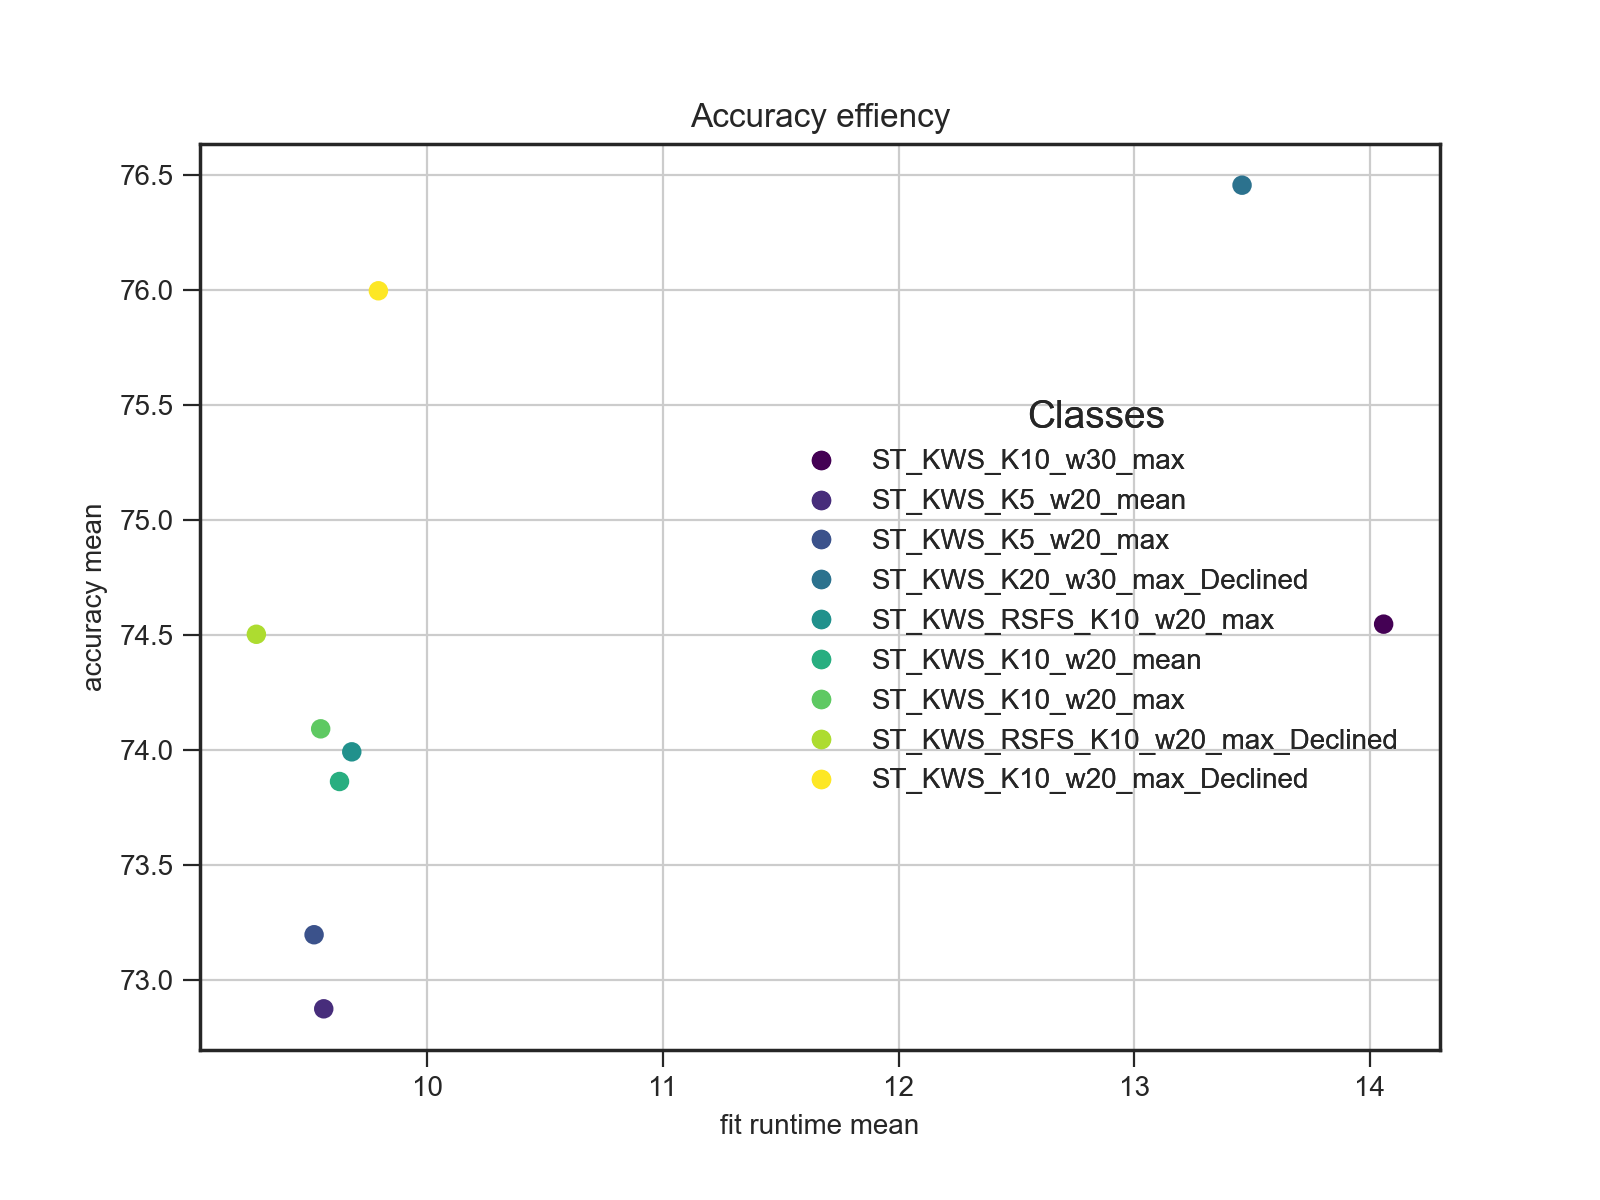
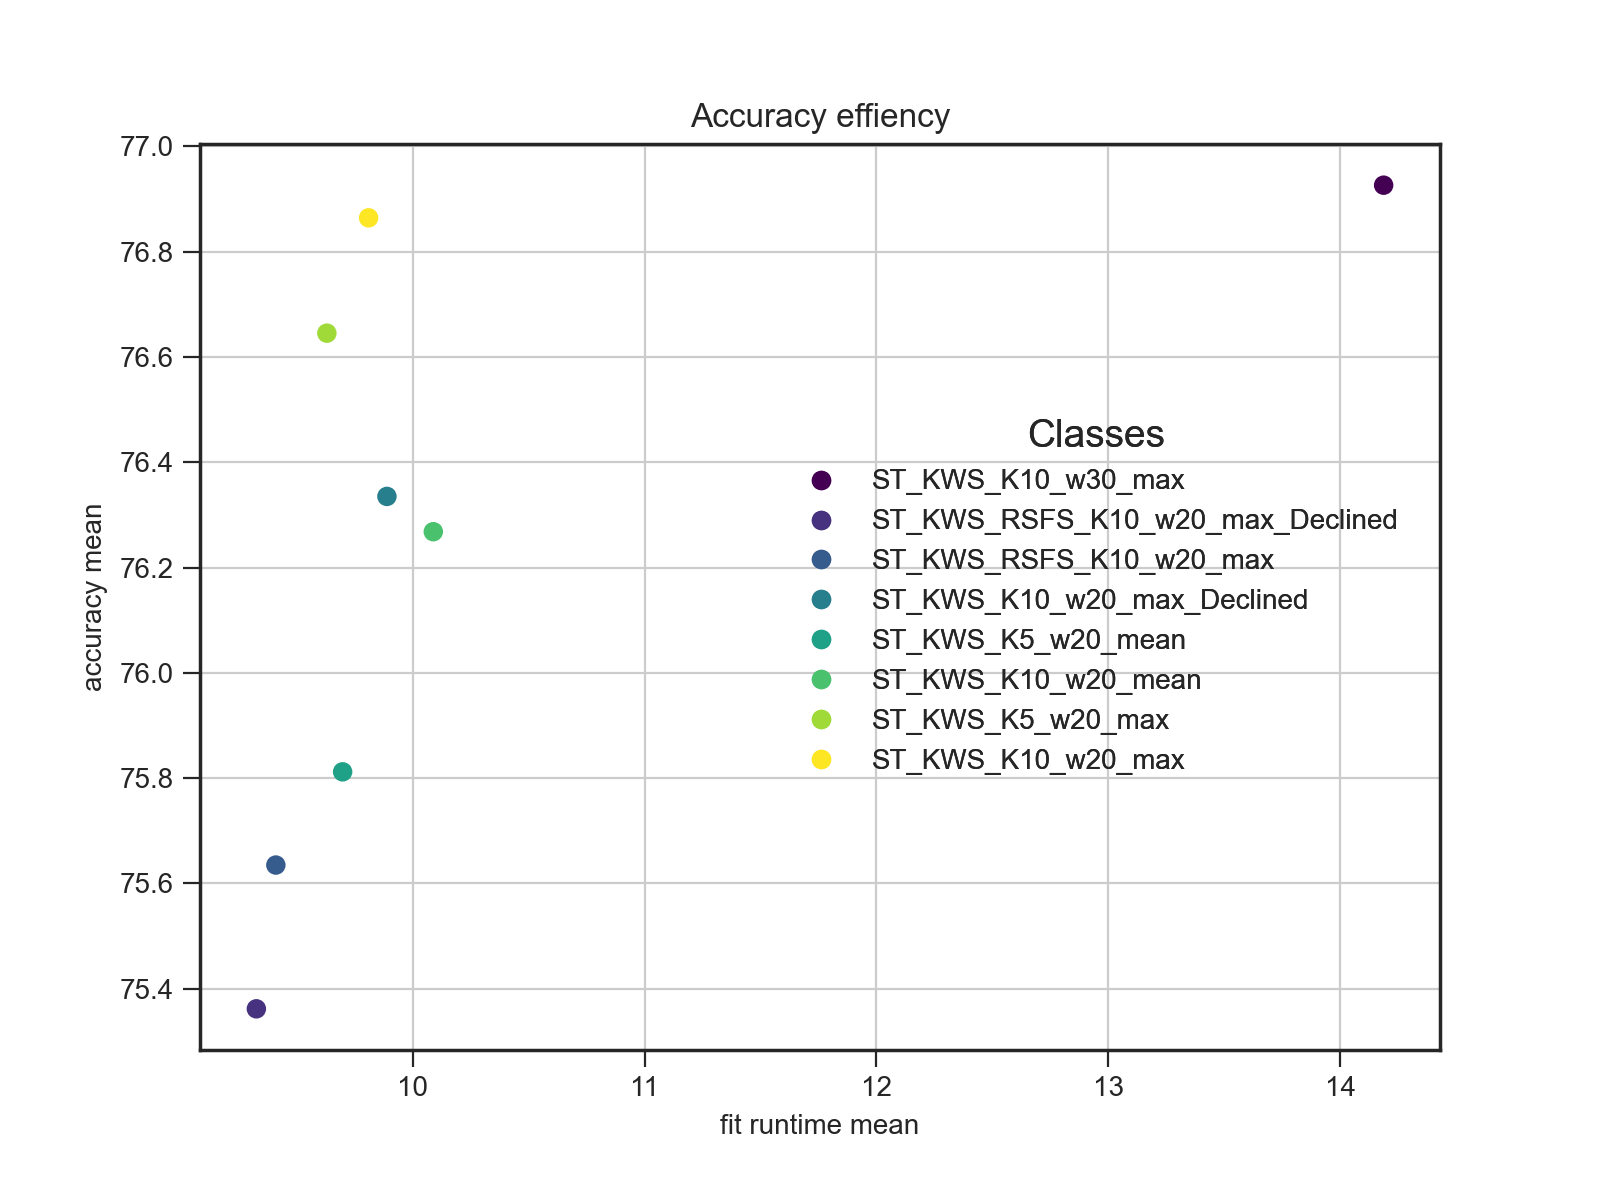
redoing V1 FULL

diff --git a/source/experiments/UEA_Experiments/univariate_benchmarking.py b/source/experiments/UEA_Experiments/univariate_benchmarking.py
@@ -309,6 +309,20 @@ strategies_V1_sg = [
         name="ST_SG_nw200_w30"),
     TSCStrategy_proba(
         SearchTechnique_SG_CLF(clf_name = '02',
+                               n_words=50,
+                               max_num_windows = 10,
+                               discretization="SFA", 
+                               random_state=random_state),
+        name="ST_SG_nw50_w10"),
+    TSCStrategy_proba(
+        SearchTechnique_SG_CLF(clf_name = '02',
+                               n_words=100,
+                               max_num_windows = 10,
+                               discretization="SFA", 
+                               random_state=random_state),
+        name="ST_SG_nw100_w10"),
+    TSCStrategy_proba(
+        SearchTechnique_SG_CLF(clf_name = '02',
                                n_words=200,
                                max_num_windows = 10,
                                discretization="SFA", 
@@ -422,6 +436,39 @@ strategies_V1_kws = [
                             max_num_windows = 30,
                             func = "max",
                             random_state=random_state),
+        name="ST_KWS_K10_w30_max"),  
+    TSCStrategy_proba(
+        SearchTechnique_KWS(K=10, method='Declined', discretization="SFA",
+                            func = "max",
+                            n_words=200,
+                            max_num_windows = 20,
+                            inclination = 1.3,
+                            random_state=random_state),
+        name="ST_KWS_K10_w20_max_Declined"), 
+    TSCStrategy_proba(
+        SearchTechnique_KWS(K=10, discretization="SFA",
+                            max_num_windows = 20,
+                            func = "max",
+                            random_selection=True,
+                            random_state=random_state),
+        name="ST_KWS_RSFS_K10_w20_max"),
+    TSCStrategy_proba(
+        SearchTechnique_KWS(K=10, method='Declined', discretization="SFA",
+                            func = "max",
+                            n_words=200,
+                            max_num_windows = 20,
+                            inclination = 1.3,
+                            random_selection=True,
+                            random_state=random_state),
+        name="ST_KWS_RSFS_K10_w20_max_Declined"),
+    
+    ]
+'''
+    TSCStrategy_proba(
+        SearchTechnique_KWS(K=10, discretization="SFA",
+                            max_num_windows = 30,
+                            func = "max",
+                            random_state=random_state),
         name="ST_KWS_K10_w30_max"),    
     TSCStrategy_proba(
         SearchTechnique_KWS(K=10, method='Declined', discretization="SFA",
@@ -458,7 +505,7 @@ strategies_V1_kws = [
     
     
     ]
-
+'''
 # ST_V1_FULL
 strategies_V1_FULL = [
     TSCStrategy_proba(
@@ -469,13 +516,11 @@ strategies_V1_FULL = [
                                random_state=random_state),
         name="ST_SG_nw200_w10"),
     TSCStrategy_proba(
-        SearchTechnique_KWS(K=10, method='Declined', discretization="SFA",
-                            func = "max",
-                            n_words=60,
+        SearchTechnique_KWS(K=10, discretization="SFA",
                             max_num_windows = 20,
-                            inclination = 1.3,
+                            func = "max",
                             random_state=random_state),
-        name="ST_KWS_K10_w20_max_Declined"),
+        name="ST_KWS_K10_w20_max"),
 ]
 
 
@@ -485,9 +530,9 @@ strategies_V2 = [
         SearchTechnique_MD(random_state=random_state,
                            max_sfa_windows = 20,
                            max_sax_windows = 2,
-                           n_sfa_words = 10,
-                           n_sax_words = 20),
-        name="ST_MD_w20_2_nw10_20"),
+                           n_sfa_words = 200,
+                           n_sax_words = 200),
+        name="ST_MD_nw10_20_w20_2"),
     TSCStrategy_proba(
         SearchTechnique_MD(random_state=random_state,
                            max_sfa_windows = 20,

diff --git a/source/technique/search_technique_KWS.py b/source/technique/search_technique_KWS.py
@@ -34,7 +34,7 @@ class SearchTechnique_KWS(BaseClassifier):
                  alphabet_size = 4,
                  discretization = 'SFA',
                  max_num_windows = 40,
-                 n_words = 10,
+                 n_words = 200,
                  inclination = 1.8,
                  random_top_words = False,
                  random_selection = False,
